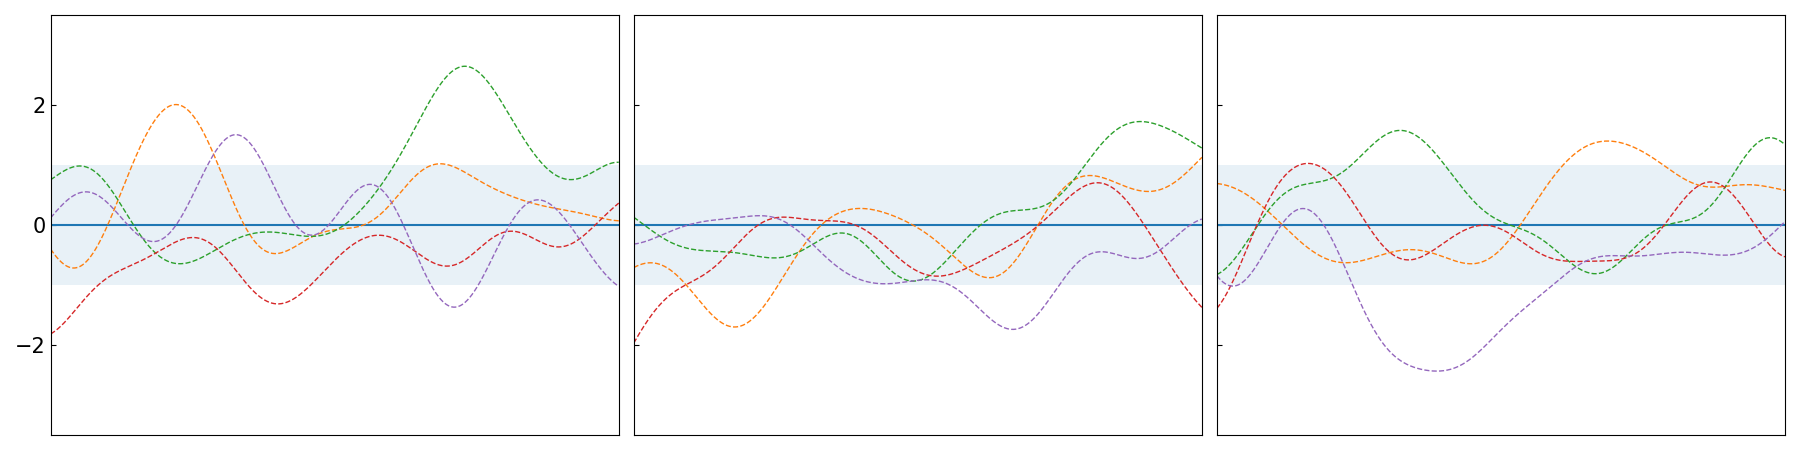
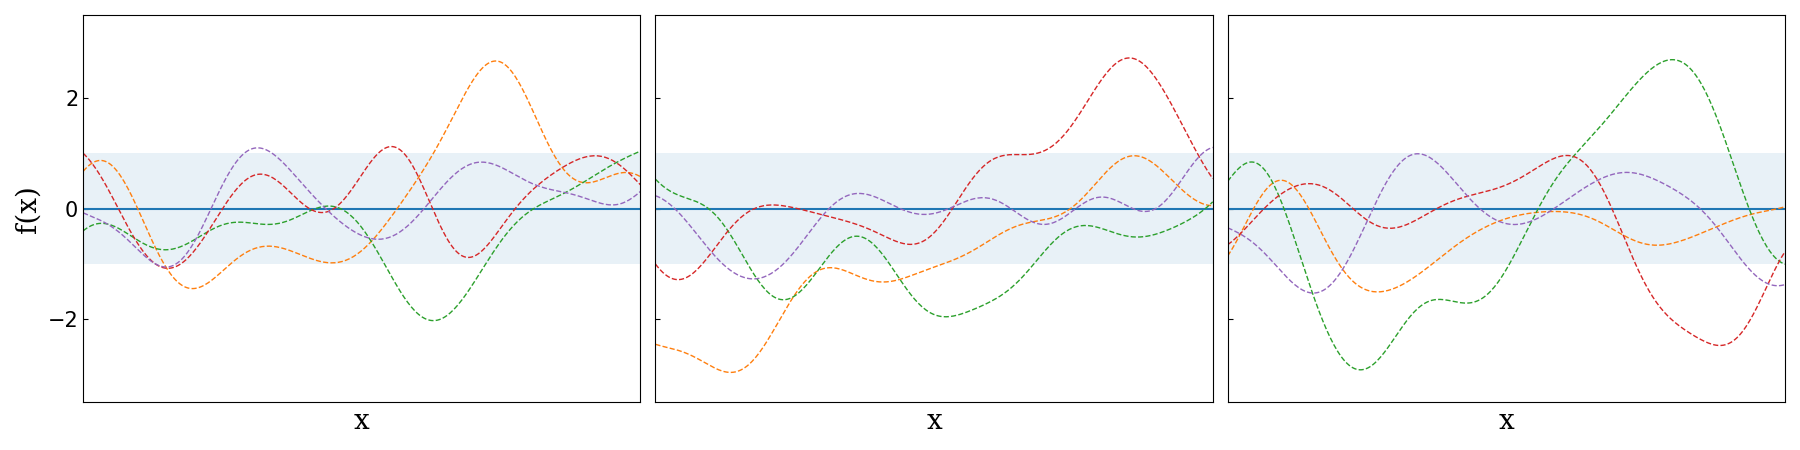
need axis labels

diff --git a/src/visualisation.py b/src/visualisation.py
@@ -1,5 +1,6 @@
 from src.kernelFuncts import RadialBasisFunction, KernelFunction, RationalQuadraticFunction, PeriodicFunction, CompositeKernel, LinearFunction
 import matplotlib.pyplot as plt
+from typing import Union
 import numpy as np
 from mpl_toolkits.axes_grid1 import make_axes_locatable
 from src.GaussianProcess import GaussianProcess
@@ -110,25 +111,6 @@ def testHypes():
         fixTickParams(axis, index)
     fig.savefig("figures/hyperparams.png")   
 
-def showGPLengthscales():
-    fig, axes = plt.subplots(1,3, figsize = (18,8))
-    x = np.linspace(0,20,250)
-    y = generateSinData(x, 5, 0.1)
-    gps = [GaussianProcess(RadialBasisFunction(lengthscale=0.1)), GaussianProcess(RadialBasisFunction(lengthscale=1)), GaussianProcess(RadialBasisFunction(lengthscale=10))]
-    for i in range(3):
-        gps[i].observeData(x,y)
-        means, variances = gps[i].inference(x)
-        axes[i].scatter(x,y, s=4, marker="x", c="black")
-        axes[i].plot(x, means)
-        axes[i].fill_between(x, means-np.diagonal(variances)*2, means+np.diagonal(variances)*2, alpha = 0.1, color = "b")
-        axes[i].set_xticks([])
-        axes[i].set_yticks([])
-    for index, axis in enumerate(axes):
-        fixTickParams(axis, index)
-        axis.set_xlim(np.min(x),np.max(x))
-    fig.tight_layout()
-    fig.savefig("figures/lengthscales.png")
-
 
 def priorDistSample(gp: GaussianProcess, nsamples: int = 3, fname="figures/priorVsPosterior.png"):
     """This function plots and samples functions from the means and covariance.
@@ -164,6 +146,10 @@ def priorDistSample(gp: GaussianProcess, nsamples: int = 3, fname="figures/prior
         axis.set_ylim(-3.5,3.5)
         axis.set_xlim(np.min(x),np.max(x))
         axis.set_xticks([])
+        axis.set_xlabel("x", fontsize = 20, fontfamily = "serif")
+
+    axes[0].set_ylabel("f(x)", fontsize = 20, fontfamily = "serif")
+
 
     fig.tight_layout()
 
@@ -179,8 +165,8 @@ def GPComps(gps: list[GaussianProcess], fname:str, nsamples = 3):
     for index, gp in enumerate(gps):
         gp.observeData(observedX, observedY)
         kernel = gp.kernelFunction
-        x = np.linspace(0,10,1000)
-        means = np.zeros(1000)
+        x = np.linspace(0,10,300)
+        means = np.zeros(300)
         kernelMatrix = kernel(x)
         postMeans,PostVariance = gp.inference(x)
         axes1[index].plot(x,means)
@@ -200,7 +186,8 @@ def GPComps(gps: list[GaussianProcess], fname:str, nsamples = 3):
         axis.set_yticks([-2,0,2])
         axis.set_xticks([])
         axis.set_xlim(np.min(x),np.max(x))
-
+        axis.set_xlabel("x", fontsize = 20, fontfamily = "serif")
+    axes1[0].set_ylabel("f(x)", fontsize = 20, fontfamily = "serif")
 
     for axis in axes2:
         axis.tick_params(direction = "in", labelsize=15)
@@ -208,6 +195,9 @@ def GPComps(gps: list[GaussianProcess], fname:str, nsamples = 3):
         axis.set_yticks([-2,0,2])
         axis.set_xticks([])
         axis.set_xlim(np.min(x),np.max(x))
+        axis.set_xlabel("x", fontsize = 20, fontfamily = "serif")
+    axes2[0].set_ylabel("f(x)", fontsize = 20, fontfamily = "serif")
+
     fig1.tight_layout()
     fig2.tight_layout()
 
@@ -215,6 +205,63 @@ def GPComps(gps: list[GaussianProcess], fname:str, nsamples = 3):
     fig2.savefig(f"figures/{fname}Posteriors.png")
 
     
+def visualiseDistribution(gp: GaussianProcess):
+    fig, axes = plt.subplots(ncols=3, nrows=2, figsize = (18,12), sharey=True)
+
+    # create a big axis for the GP posterior
+    gs = axes[0,0].get_gridspec()
+    for axis in axes[0]:
+        axis.remove()
+    axis = fig.add_subplot(gs[0, :])
+
+    # plot the GP posterior
+    observedX = [2,3,6, 4.8]
+    observedY = [-0.5,0.5,2,1]
+    gp.observeData(observedX, observedY)
+
+    inspectionPoints = [1.5,5.0,8.5]
+
+    x = np.linspace(0,10,200)
+    means, kernelMatrix = gp.inference(x)
+    axis.plot(x,means)
+    axis.scatter(gp.x, gp.y, marker = "x", c="black", s=40, label="Observed data")
+    axis.fill_between(x, means-kernelMatrix.diagonal(), means+kernelMatrix.diagonal(), alpha = 0.1)
+    axis.tick_params(direction = "in", labelsize=15)
+    axis.set_ylim(-3.5,3.5)
+    axis.set_ylabel("f(x)", fontsize = 20, fontfamily = "serif")
+    axis.set_xlabel("x", fontsize = 20, fontfamily = "serif")
+    axis.set_yticks([-2,0,2])
+    axis.set_xticks(inspectionPoints)
+    axis.set_xlim(np.min(x),np.max(x))
+    fixTickParams(axis,0)
+
+    for index, inspectionPoint in enumerate(inspectionPoints):
+        axis.plot([inspectionPoint, inspectionPoint], [-4, 4], color = "black",linestyle = "dashed")
+        mean, var = gp.inference(inspectionPoint)
+        x = np.linspace(mean-4,mean+4,200)
+        y = pdf(x, mean, var)
+        axes[1,index].plot(x,y.flatten())
+        axes[1,index].fill_between(x.flatten(),y.flatten(), 0, alpha=0.1)
+        axes[1,index].set_xticks([-4,-2,0,2,4])
+        axes[1,index].set_xlim([np.min(x), np.max(x)])
+        axes[1,index].set_xlabel(f"f({inspectionPoint})", fontsize = 20, fontfamily = "serif")
+        fixTickParams(axes[1,index], index)
+
+
+    axes[1,0].set_ylabel("Probablity density", fontsize = 20, fontfamily = "serif")
+
+    axes[1,0].set_ylim(0,3)
+    axes[1,0].set_yticks([0,1,2,3])
+    # fig.tight_layout()
+    fig.savefig("figures/distribution.png")
+
+def pdf(x: Union[float,np.ndarray], mean: float, variance: float):
+    """Function provides probability density function for x."""
+    std = np.sqrt(variance)
+    y_out = 1/(std * np.sqrt(2 * np.pi)) * np.exp( - (x - mean)**2 / (2 * std**2))
+    return y_out
+
+
 def fixTickParams(axis, index):
     """This function fixes axis for consistency."""
     axis.tick_params(direction = "in", labelsize=15)
@@ -224,7 +271,7 @@ def fixTickParams(axis, index):
 
 
 if __name__ == "__main__":
-    # rbf = RadialBasisFunction(lengthscale=1)
+    rbf = RadialBasisFunction(lengthscale=1)
     # rq = RationalQuadraticFunction(alpha=1)
     # p = PeriodicFunction()
     # lin = LinearFunction(sigmaV=1/36)
@@ -237,17 +284,18 @@ if __name__ == "__main__":
     # showAll()
     # testHypes()
     # showGPLengthscales()
-    # gp = GaussianProcess(RadialBasisFunction(lengthscale=1, sigma=1), noise_variance=0.01)
-    # priorDistSample(gp, nsamples=5)
-    # gps = [
-    #     GaussianProcess(RadialBasisFunction(), noise_variance=0.01), GaussianProcess(RadialBasisFunction(), noise_variance=0.1), GaussianProcess(RadialBasisFunction(), noise_variance=1)
-    # ]
-    # GPComps(gps, "noiseVariance", nsamples=4)
-    # gps = [
-    #     GaussianProcess(RadialBasisFunction(sigma=0.5)), GaussianProcess(RadialBasisFunction(sigma=1)), GaussianProcess(RadialBasisFunction(sigma=1.4))
-    # ]
-    # GPComps(gps, "sigmas", nsamples=4)
+    gp = GaussianProcess(RadialBasisFunction(lengthscale=1, sigma=1), noise_variance=0.01)
+    priorDistSample(gp, nsamples=5)
+    gps = [
+        GaussianProcess(RadialBasisFunction(), noise_variance=0.01), GaussianProcess(RadialBasisFunction(), noise_variance=0.1), GaussianProcess(RadialBasisFunction(), noise_variance=1)
+    ]
+    GPComps(gps, "noiseVariance", nsamples=4)
+    gps = [
+        GaussianProcess(RadialBasisFunction(sigma=0.5)), GaussianProcess(RadialBasisFunction(sigma=1)), GaussianProcess(RadialBasisFunction(sigma=1.4))
+    ]
+    GPComps(gps, "sigmas", nsamples=4)
     gps = [
         GaussianProcess(RadialBasisFunction(lengthscale=0.1)), GaussianProcess(RadialBasisFunction(lengthscale=0.5)), GaussianProcess(RadialBasisFunction(lengthscale=2))
     ]
     GPComps(gps, "lengthscales", nsamples=3)
+    visualiseDistribution(GaussianProcess(rbf))
